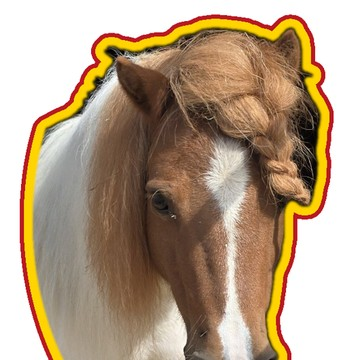
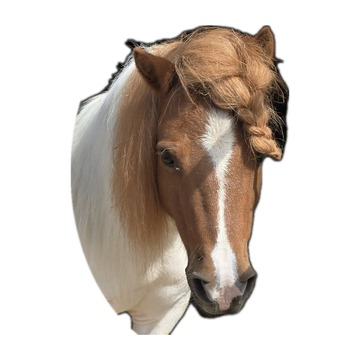
Pony ohne Rand, zentriert; Startseiten-Quadrate 72px (zzz6)
Claude-Session: https://claude.ai/code/session_01SR1idZGCF2kEM9nfLReKH8

diff --git a/index.html b/index.html
@@ -1,5 +1,5 @@
 <!doctype html><html data-theme="light"><head><meta charset=utf8><meta name=viewport content="width=device-width,initial-scale=1,viewport-fit=cover"><style>:root{color-scheme:light;box-sizing:border-box;padding-top:env(safe-area-inset-top,0px);padding-bottom:env(safe-area-inset-bottom,0px)}html{scroll-padding-top:env(safe-area-inset-top,0px)}body{margin:0;padding:0;font:14px -apple-system,BlinkMacSystemFont,sans-serif;background:#fff;color:#000}img{max-width:100%}[hidden]:not([hidden=until-found i]){display:none!important}</style><title>PASSAGE a–x</title><link rel="manifest" href="manifest.webmanifest"><link rel="icon" href="favicon.ico?v=6" sizes="any"><link rel="icon" type="image/png" sizes="192x192" href="icon-192.png?v=6"><link rel="icon" type="image/png" sizes="512x512" href="icon-512.png?v=6"><link rel="apple-touch-icon" sizes="180x180" href="apple-touch-icon.png?v=6"><meta name="apple-mobile-web-app-capable" content="yes"><meta name="mobile-web-app-capable" content="yes"><meta name="apple-mobile-web-app-title" content="PASSAGE"><meta name="theme-color" content="#f5f6f2"><style id="brand-logo">.rule.m{display:none!important}#brand{gap:0!important;height:auto!important}#brand .bmark{width:min(calc(44vw - 2px),200px)!important;height:auto!important;display:block}#brand .bp,#brand .ba{font-family:inherit;font-weight:700;fill:#fff}#brand .ba{stroke:#fff;stroke-width:.5;letter-spacing:.7px}#brand .pw{font-family:inherit;font-weight:700;fill:#e30613;stroke:#e30613;stroke-width:1.6;stroke-linejoin:round;letter-spacing:.2px}#brand .pax{font-family:inherit;font-weight:700;fill:#0057d8;stroke:#0057d8;stroke-width:.5;letter-spacing:.7px}</style><style id="info-move">#infoBtn{display:none!important}.titlebar .wsw{margin-right:-6px!important}.copy .ilink{margin-left:12px;font:inherit;font-size:inherit;color:inherit;text-decoration:underline;background:none;border:0;padding:4px 2px;cursor:pointer}#tipInfo{text-decoration:underline;cursor:pointer}</style><style id="brand-dots">#brand .pw{fill:#fff!important;stroke:#e30613!important;stroke-width:.6px!important;stroke-dasharray:none!important}#brand .pax{fill:#e30613!important;stroke:#e30613!important}</style><style id="pwhat-css">#pwhatBtn{position:fixed;left:8px;bottom:calc(50% - var(--head)/2 + env(safe-area-inset-bottom,0px)/2 + 5px);z-index:46;writing-mode:vertical-rl;transform:rotate(180deg);display:flex;align-items:center;gap:2px;font:inherit;font-size:.8rem;font-style:italic;color:#0057d8;background:none;border:0;padding:4px 4px;cursor:pointer;text-decoration:none;white-space:nowrap}#pwhatBtn .pwi{writing-mode:horizontal-tb;transform:rotate(180deg);flex:none;width:17px;height:17px;border-radius:50%;background:#e30613;color:#fff;display:inline-flex;align-items:center;justify-content:center;font-size:.72rem;font-weight:700;font-style:italic;line-height:1;text-decoration:none;margin-top:2px}#pwhat{position:fixed;inset:0;z-index:100000;display:flex;align-items:center;justify-content:center;padding:18px;background:rgba(0,0,0,.45)}#pwhat[hidden]{display:none}#pwhat .pwcard{background:#fff!important;box-shadow:none!important;opacity:1!important;color:#111;border-radius:14px;max-width:420px;width:100%;max-height:86vh;overflow:auto;padding:18px 18px 14px;box-sizing:border-box;border:1px solid #bbb}#pwhat h2{margin:0 0 10px;font-size:1.15rem}#pwhat p{margin:0 0 10px;line-height:1.45;font-size:.98rem}#pwhat .row{display:flex;gap:10px;flex-wrap:wrap;margin-top:14px}#pwhat a.ex,#pwhat button{font:inherit;font-size:.95rem;border-radius:8px;padding:10px 14px;cursor:pointer;text-decoration:none;text-align:center}#pwhat a.ex{border:1px solid #e30613;color:#e30613;background:#fff}#pwhat button{border:0;background:#ececec;color:#111}</style></head><body>
-<meta name="app-version" content="2026-11-01zzz5"><script id="start-top">(function(){try{if("scrollRestoration" in history)history.scrollRestoration="manual";var K="start-seen",LIM=5000,base=location.pathname+location.search;function get(){try{return +sessionStorage.getItem(K)||0}catch(e){return 0}}function put(){try{sessionStorage.setItem(K,String(Date.now()))}catch(e){}}function stale(){var p=get();return p&&Date.now()-p>LIM}function reset(){try{sessionStorage.removeItem(K)}catch(e){}location.replace(base)}if(stale()&&location.hash){reset();return}put();function back(){if(stale())reset();else put()}setInterval(function(){if(document.visibilityState==="visible")put()},3000);document.addEventListener("visibilitychange",function(){if(document.visibilityState==="hidden")put();else back()});addEventListener("pageshow",function(e){if(e.persisted)location.reload();else back()});addEventListener("focus",back);document.addEventListener("resume",back);addEventListener("pagehide",put);}catch(e){}})();</script>
+<meta name="app-version" content="2026-11-01zzz6"><script id="start-top">(function(){try{if("scrollRestoration" in history)history.scrollRestoration="manual";var K="start-seen",LIM=5000,base=location.pathname+location.search;function get(){try{return +sessionStorage.getItem(K)||0}catch(e){return 0}}function put(){try{sessionStorage.setItem(K,String(Date.now()))}catch(e){}}function stale(){var p=get();return p&&Date.now()-p>LIM}function reset(){try{sessionStorage.removeItem(K)}catch(e){}location.replace(base)}if(stale()&&location.hash){reset();return}put();function back(){if(stale())reset();else put()}setInterval(function(){if(document.visibilityState==="visible")put()},3000);document.addEventListener("visibilitychange",function(){if(document.visibilityState==="hidden")put();else back()});addEventListener("pageshow",function(e){if(e.persisted)location.reload();else back()});addEventListener("focus",back);document.addEventListener("resume",back);addEventListener("pagehide",put);}catch(e){}})();</script>
 <link rel="stylesheet" href="https://fonts.googleapis.com/css2?family=Source+Sans+3:wght@400;600;700&display=swap">
 <style>
 /* Layout: full-screen app column — logo + title, mode switch, arena that fills the free height, controls pinned below */
@@ -1672,7 +1672,7 @@ html.anaOpen{overflow:hidden}
 
 /* /anagal-css */
 /* ad-z-css */
-#p-w .tile .code{border-radius:0!important;width:52px;height:52px}
+#p-w .tile .code{border-radius:0!important;width:72px;height:72px}
 .ad.on,.ad.ok,.ad.bad{z-index:8}
 .alab{z-index:9}
 /* /ad-z-css */

diff --git a/src/kreise_patch.py b/src/kreise_patch.py
@@ -7,7 +7,7 @@ else:
     a="b.querySelector('.code').textContent=c;"
     assert s.count(a)==1; s=s.replace(a,blk)
 s=re.sub(r'/\* kreise-css \*/.*?/\* /kreise-css \*/\n','',s,flags=re.S)
-sq='#p-w .tile .code{border-radius:0!important;width:52px;height:52px}\n'
+sq='#p-w .tile .code{border-radius:0!important;width:72px;height:72px}\n'
 z=sq+'.ad.on,.ad.ok,.ad.bad{z-index:8}\n.alab{z-index:9}\n'
 s=re.sub(r'/\* ad-z-css \*/.*?/\* /ad-z-css \*/\n','',s,flags=re.S)
 i=s.rfind('</style>'); s=s[:i]+'/* ad-z-css */\n'+z+'/* /ad-z-css */\n'+s[i:]
